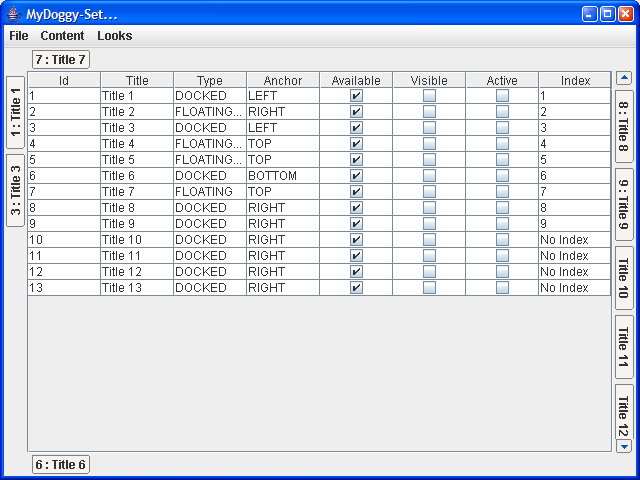
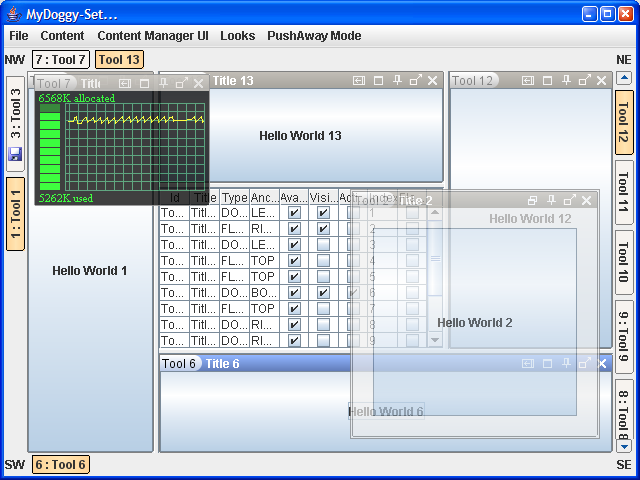
some updates...
git-svn-id: https://svn.code.sf.net/p/mydoggy/code/mydoggy/trunk@414 2a62bbde-051e-0410-bf3e-cfb6b34e140d

diff --git a/mydoggy-examples/src/main/java/org/noos/xing/mydoggy/examples/mydoggyset/MyDoggySet.java b/mydoggy-examples/src/main/java/org/noos/xing/mydoggy/examples/mydoggyset/MyDoggySet.java
@@ -279,29 +279,27 @@ public class MyDoggySet {
         FloatingTypeDescriptor typeDescriptor = (FloatingTypeDescriptor) toolWindowManager.getTypeDescriptorTemplate(ToolWindowType.FLOATING);
         typeDescriptor.setTransparentDelay(0);
 
-
         JPanel panel = new JPanel(new TableLayout(new double[][]{{20, -1, 20}, {20, -1, 20}}));
         panel.add(new JButton("Hello World 2"), "1,1,FULL,FULL");
 
-		toolWindowManager.registerToolWindow("Title 1", "Title 1", null, new JButton("Hello World 1"), ToolWindowAnchor.LEFT);
-        toolWindowManager.registerToolWindow("2", "Title 2", null, panel, ToolWindowAnchor.RIGHT);
-        toolWindowManager.registerToolWindow("3", "Title 3",
+		toolWindowManager.registerToolWindow("Tool 1", "Title 1", null, new JButton("Hello World 1"), ToolWindowAnchor.LEFT);
+        toolWindowManager.registerToolWindow("Tool 2", "Title 2", null, panel, ToolWindowAnchor.RIGHT);
+        toolWindowManager.registerToolWindow("Tool 3", "Title 3",
                                              SwingUtil.loadIcon("org/noos/xing/mydoggy/examples/mydoggyset/icons/save.png"),
                                              new JButton("Hello World 3"), ToolWindowAnchor.LEFT);
-        toolWindowManager.registerToolWindow("4", "Title 4", null, new JButton("Hello World 4"), ToolWindowAnchor.TOP);
-        toolWindowManager.registerToolWindow("5", "Title 5", null, new JButton("Hello World 5"), ToolWindowAnchor.TOP);
-        toolWindowManager.registerToolWindow("6", "Title 6", null, new JButton("Hello World 6"), ToolWindowAnchor.BOTTOM);
+        toolWindowManager.registerToolWindow("Tool 4", "Title 4", null, new JButton("Hello World 4"), ToolWindowAnchor.TOP);
+        toolWindowManager.registerToolWindow("Tool 5", "Title 5", null, new JButton("Hello World 5"), ToolWindowAnchor.TOP);
+        toolWindowManager.registerToolWindow("Tool 6", "Title 6", null, new JButton("Hello World 6"), ToolWindowAnchor.BOTTOM);
+
         MonitorPanel monitorPanel = new MonitorPanel(new RuntimeMemoryMonitorSource());
         monitorPanel.start();
-        toolWindowManager.registerToolWindow("7", "Title 7", null,
-                                             /*new JButton("Hello World 7")*/ monitorPanel, 
-                                             ToolWindowAnchor.TOP);
-        toolWindowManager.registerToolWindow("8", "Title 8", null, new JButton("Hello World 8"), ToolWindowAnchor.RIGHT);
-        toolWindowManager.registerToolWindow("9", "Title 9", null, new JButton("Hello World 9"), ToolWindowAnchor.RIGHT);
-        toolWindowManager.registerToolWindow("10", "Title 10", null, new JButton("Hello World 10"), ToolWindowAnchor.RIGHT);
-        toolWindowManager.registerToolWindow("11", "Title 11", null, new JButton("Hello World 11"), ToolWindowAnchor.RIGHT);
-        toolWindowManager.registerToolWindow("12", "Title 12", null, new JButton("Hello World 12"), ToolWindowAnchor.RIGHT);
-        toolWindowManager.registerToolWindow("13", "Title 13", null, new JButton("Hello World 13"), ToolWindowAnchor.RIGHT);
+        toolWindowManager.registerToolWindow("Tool 7", "Title 7", null, monitorPanel, ToolWindowAnchor.TOP);
+        toolWindowManager.registerToolWindow("Tool 8", "Title 8", null, new JButton("Hello World 8"), ToolWindowAnchor.RIGHT);
+        toolWindowManager.registerToolWindow("Tool 9", "Title 9", null, new JButton("Hello World 9"), ToolWindowAnchor.RIGHT);
+        toolWindowManager.registerToolWindow("Tool 10", "Title 10", null, new JButton("Hello World 10"), ToolWindowAnchor.RIGHT);
+        toolWindowManager.registerToolWindow("Tool 11", "Title 11", null, new JButton("Hello World 11"), ToolWindowAnchor.RIGHT);
+        toolWindowManager.registerToolWindow("Tool 12", "Title 12", null, new JButton("Hello World 12"), ToolWindowAnchor.RIGHT);
+        toolWindowManager.registerToolWindow("Tool 13", "Title 13", null, new JButton("Hello World 13"), ToolWindowAnchor.RIGHT);
 
         for (ToolWindow window : toolWindowManager.getToolWindows()) {
             window.setAvailable(true);
@@ -312,7 +310,7 @@ public class MyDoggySet {
         ToolWindowGroup submainGroup = toolWindowManager.getToolWindowGroup("SubMain");
 
         // Set TypeDescriptor properties for tool window 1
-        ToolWindow toolWindow = toolWindowManager.getToolWindow("Title 1");
+        ToolWindow toolWindow = toolWindowManager.getToolWindow("Tool 1");
 
         DockedTypeDescriptor dockedTypeDescriptor = (DockedTypeDescriptor) toolWindow.getTypeDescriptor(ToolWindowType.DOCKED);
         dockedTypeDescriptor.setPopupMenuEnabled(false);
@@ -321,7 +319,7 @@ public class MyDoggySet {
         mainGroup.addToolWindow(toolWindow);
 
         // Set properties for tool window 2
-        toolWindow = toolWindowManager.getToolWindow("2");
+        toolWindow = toolWindowManager.getToolWindow("Tool 2");
         dockedTypeDescriptor = (DockedTypeDescriptor) toolWindow.getTypeDescriptor(ToolWindowType.DOCKED);
         dockedTypeDescriptor.getToolsMenu().add(new JMenuItem("Prova"));
 
@@ -333,7 +331,7 @@ public class MyDoggySet {
 
         submainGroup.addToolWindow(toolWindow);
 
-        toolWindow = toolWindowManager.getToolWindow("3");
+        toolWindow = toolWindowManager.getToolWindow("Tool 3");
         dockedTypeDescriptor = (DockedTypeDescriptor) toolWindow.getTypeDescriptor(ToolWindowType.DOCKED);
 
         JMenuItem menuItem = new JMenuItem("Hello World!!!");
@@ -353,18 +351,18 @@ public class MyDoggySet {
         mainGroup.addToolWindow(toolWindow);
 
         // Set properties for tool window 4
-        toolWindow = toolWindowManager.getToolWindow("4");
+        toolWindow = toolWindowManager.getToolWindow("Tool 4");
         toolWindow.setType(ToolWindowType.FLOATING_FREE);
         submainGroup.addToolWindow(toolWindow);
 
         // Set properties for tool window 5
-        toolWindow = toolWindowManager.getToolWindow("5");
+        toolWindow = toolWindowManager.getToolWindow("Tool 5");
         toolWindow.setType(ToolWindowType.FLOATING_FREE);
 
-        submainGroup.addToolWindow(toolWindowManager.getToolWindow("6"));
+        submainGroup.addToolWindow(toolWindowManager.getToolWindow("Tool 6"));
 
         // Set properties for tool window 7
-        toolWindow = toolWindowManager.getToolWindow("7");
+        toolWindow = toolWindowManager.getToolWindow("Tool 7");
         toolWindow.setType(ToolWindowType.FLOATING);
 
         floatingTypeDescriptor = (FloatingTypeDescriptor) toolWindow.getTypeDescriptor(ToolWindowType.FLOATING);
